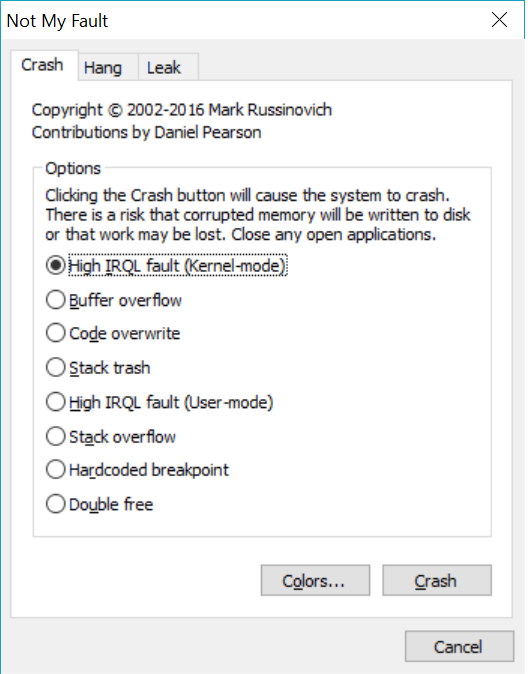
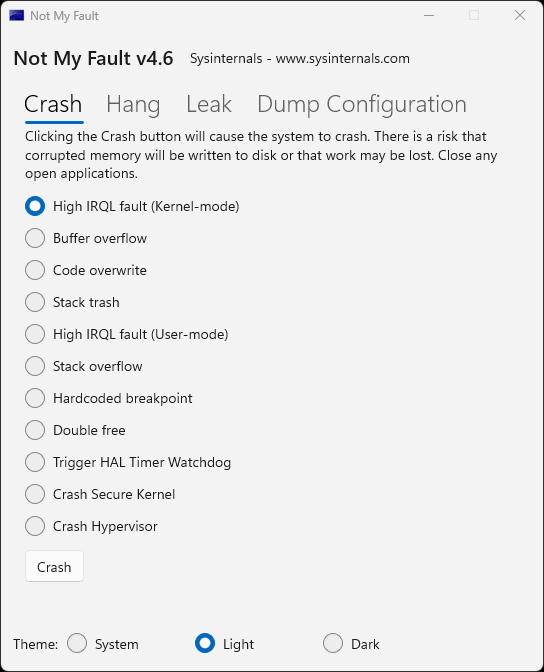
Add content for the August 2026 publish (#983)
* Add content for the August 2026 publish

* Update file sizes

* Update front page text

* Update front page

* Update NotMyFault screenshot

diff --git a/sysinternals/downloads/index.md b/sysinternals/downloads/index.md
@@ -4,7 +4,7 @@ title: Sysinternals Utilities
 description: Evaluate and find out how to install, deploy, and maintain Windows with Sysinternals utilities.
 ms:assetid: 'aefdbd0d-e21b-45ad-8e2b-b69cb8e04d5f'
 ms:mtpsurl: 'https://technet.microsoft.com/Bb545027(v=MSDN.10)'
-ms.date: 07/09/2026
+ms.date: 08/12/2026
 ---
 
 # Sysinternals Utilities Index
@@ -87,7 +87,7 @@ to optimize individual files, or to create new files that are
 contiguous.
 
 [Coreinfo](coreinfo.md)
-*v4.01 (June 17, 2026)*  
+*v4.02 (August 12, 2026)*  
 Coreinfo is a new command-line utility that shows you the mapping
 between logical processors and the physical processor, NUMA node, and
 socket on which they reside, as well as the cache’s assigned to each
@@ -191,7 +191,7 @@ List the active logon sessions on a system.
 Allows you to schedule move and delete commands for the next reboot.
 
 [NotMyFault](notmyfault.md)
-*v4.5 (May 7, 2026)*  
+*v4.6 (August 12, 2026)*  
 Notmyfault is a tool that you can use to crash, hang, and cause kernel
 memory leaks on your Windows system.
 
@@ -227,13 +227,13 @@ generate process dumps when a process has a hung window or unhandled
 exception.
 
 [Process Explorer](process-explorer.md)
-*v17.12 (May 7, 2026)*  
+*v17.13 (August 12, 2026)*  
 Find out what files, registry keys and other objects processes have
 open, which DLLs they have loaded, and more. This uniquely powerful
 utility will even show you who owns each process.
 
 [Process Monitor](procmon.md)  
-*v4.04 (June 17, 2026)*  
+*v4.05 (August 12, 2026)*  
 Monitor file system, Registry, process, thread and DLL activity in
 real-time.
 
@@ -258,7 +258,7 @@ Obtain information about a system.
 Terminate local or remote processes.
 
 [PsPing](psping.md)  
-*v2.12 (March 30, 2023)*  
+*v2.13 (August 12, 2026)*  
 Measure network performance.
 
 [PsList](pslist.md)  
@@ -290,7 +290,7 @@ Shuts down and optionally reboots a computer.
 Suspend and resume processes.
 
 [PsTools](pstools.md)  
-*v2.51 (April 11, 2023)*  
+*v2.52 (August 12, 2026)*  
 The PsTools suite includes command-line utilities for listing the
 processes running on local or remote computers, running processes
 remotely, rebooting computers, dumping event logs, and more.
@@ -301,7 +301,7 @@ An advanced physical memory usage analysis utility that presents usage
 information in different ways on its several different tabs.
 
 [RDCMan](rdcman.md)  
-*v3.12 (February 4, 2026)*  
+*v3.20 (August 12, 2026)*  
 Manage multiple remote desktop connections.
 
 [RegDelNull](regdelnull.md)  
@@ -374,5 +374,5 @@ See who owns an Internet address.
 The ultimate Object Manager namespace viewer is here.
 
 [ZoomIt](zoomit.md)
-*v12.11 (July 9, 2026)*  
+*v12.2 (August 12, 2026)*  
 Presentation utility for zooming and drawing on the screen.

diff --git a/sysinternals/downloads/zoomit.md b/sysinternals/downloads/zoomit.md
@@ -5,16 +5,16 @@ description: Presentation utility for zooming and drawing on the screen.
 no-loc: [Mark Russinovich]
 ms:assetid: '0b6c4abc-9482-4759-a9cd-bf77cb961dd4'
 ms:mtpsurl: 'https://technet.microsoft.com/Bb897434(v=MSDN.10)'
-ms.date: 07/09/2026
+ms.date: 08/12/2026
 ---
 
-# ZoomIt v12.11
+# ZoomIt v12.2
 
 **By Mark Russinovich**
 
-Published: July 9, 2026
+Published: August 12, 2026
 
-[![Download](media/shared/Download_sm.png)](https://download.sysinternals.com/files/ZoomIt.zip) [**Download ZoomIt**](https://download.sysinternals.com/files/ZoomIt.zip) **(24.2 MB)**  
+[![Download](media/shared/Download_sm.png)](https://download.sysinternals.com/files/ZoomIt.zip) [**Download ZoomIt**](https://download.sysinternals.com/files/ZoomIt.zip) **(24.3 MB)**  
 [**Download from Microsoft PowerToys (GitHub)**](https://github.com/microsoft/PowerToys)
 <br>
 [**Download ZoomIt For Mac (GitHub)**](https://github.com/microsoft/ZoomitForMac)
@@ -107,7 +107,7 @@ ZoomIt offers a number of shortcuts which can extend its usage greatly.
 | Advance to the next snippet (DemoType User-driven Mode)                                                                            | Space Bar                                 |
 | Exit                                                                                                                               | Esc or Right-Click                        |
 
-[![Download](media/shared/Download_sm.png)](https://download.sysinternals.com/files/ZoomIt.zip) [**Download ZoomIt**](https://download.sysinternals.com/files/ZoomIt.zip) **(24.2 MB)**  
+[![Download](media/shared/Download_sm.png)](https://download.sysinternals.com/files/ZoomIt.zip) [**Download ZoomIt**](https://download.sysinternals.com/files/ZoomIt.zip) **(24.3 MB)**  
 **Run now** from [Sysinternals Live](https://live.sysinternals.com/ZoomIt.exe).
 
 [**Download from Microsoft PowerToys (GitHub)**](https://github.com/microsoft/PowerToys)

diff --git a/sysinternals/downloads/process-explorer.md b/sysinternals/downloads/process-explorer.md
@@ -4,17 +4,17 @@ title: Process Explorer
 description: Find out what files, registry keys and other objects processes have open, which DLLs they have loaded, and more.
 ms:assetid: '32cbeee6-4335-44d5-b94b-160612b99738'
 ms:mtpsurl: 'https://technet.microsoft.com/Bb896653(v=MSDN.10)'
-ms.date: 05/07/2026
+ms.date: 08/12/2026
 adobe-target: true
 ---
 
-# Process Explorer v17.12
+# Process Explorer v17.13
 
 **By Mark Russinovich**
 
-Published: May 7, 2026
+Published: August 12, 2026
 
-[![Download](media/shared/Download_sm.png)](https://download.sysinternals.com/files/ProcessExplorer.zip) [**Download Process Explorer**](https://download.sysinternals.com/files/ProcessExplorer.zip) **(3.3 MB)**  
+[![Download](media/shared/Download_sm.png)](https://download.sysinternals.com/files/ProcessExplorer.zip) [**Download Process Explorer**](https://download.sysinternals.com/files/ProcessExplorer.zip) **(3.4 MB)**  
 **Run now** from [Sysinternals Live](https://live.sysinternals.com/procexp.exe).
 <br><br>
 > [!VIDEO https://learn-video.azurefd.net/vod/player?id=27421f3d-e796-4ecd-935d-ea78cd638757]
@@ -49,7 +49,7 @@ into the way Windows and applications work.
 
 ## Download
 
-[![Download](media/shared/Download_sm.png)](https://download.sysinternals.com/files/ProcessExplorer.zip) [**Download Process Explorer**](https://download.sysinternals.com/files/ProcessExplorer.zip) **(3.3 MB)**  
+[![Download](media/shared/Download_sm.png)](https://download.sysinternals.com/files/ProcessExplorer.zip) [**Download Process Explorer**](https://download.sysinternals.com/files/ProcessExplorer.zip) **(3.4 MB)**  
 **Run now** from [Sysinternals Live](https://live.sysinternals.com/procexp.exe).
 
 **Runs on:**

diff --git a/sysinternals/downloads/rdcman.md b/sysinternals/downloads/rdcman.md
@@ -3,16 +3,16 @@ TOCTitle: Remote Desktop Connection Manager
 title: Remote Desktop Connection Manager
 no-loc: [Julian Burger]
 description: Manage multiple remote desktop connections.
-ms.date: 02/04/2026
+ms.date: 08/12/2026
 ---
 
-# Remote Desktop Connection Manager v3.12
+# Remote Desktop Connection Manager v3.20
 
 **By Julian Burger**
 
-Published: February 4, 2026
+Published: August 12, 2026
 
-[![Download](media/shared/Download_sm.png)](https://download.sysinternals.com/files/RDCMan.zip) [**Download Remote Desktop Connection Manager**](https://download.sysinternals.com/files/RDCMan.zip) **(116.1 MB)**  
+[![Download](media/shared/Download_sm.png)](https://download.sysinternals.com/files/RDCMan.zip) [**Download Remote Desktop Connection Manager**](https://download.sysinternals.com/files/RDCMan.zip) **(122.9 MB)**  
 **Run now** from [Sysinternals Live](https://live.sysinternals.com/RDCMan.exe).
 
 ## Introduction
@@ -362,7 +362,7 @@ RDCMan retrieves policy information from the `HKEY_LOCAL_MACHINE\SOFTWARE\Polici
 
 ## Download
 
-[![Download](media/shared/Download_sm.png)](https://download.sysinternals.com/files/RDCMan.zip) [**Download Remote Desktop Connection Manager**](https://download.sysinternals.com/files/RDCMan.zip) **(116.1 MB)**  
+[![Download](media/shared/Download_sm.png)](https://download.sysinternals.com/files/RDCMan.zip) [**Download Remote Desktop Connection Manager**](https://download.sysinternals.com/files/RDCMan.zip) **(122.9 MB)**  
 **Run now** from [Sysinternals Live](https://live.sysinternals.com/RDCMan.exe).
 
 **Runs on:**

diff --git a/sysinternals/index.md b/sysinternals/index.md
@@ -5,7 +5,7 @@ description: Library, learning resources, downloads, support, and community. Eva
 no-loc: [Mark Russinovich]
 ms:assetid: '2b0d74e3-5962-455a-b35a-248979737b61'
 ms:mtpsurl: 'https://technet.microsoft.com/Bb545021(v=MSDN.10)'
-ms.date: 07/24/2026
+ms.date: 08/12/2026
 ---
 
 # ![Sysinternals icon](media/index/Sysinternals.png)<br>Sysinternals
@@ -29,6 +29,17 @@ In a command prompt use `\\live.sysinternals.com\tools\<toolname>`.
 You can view the entire Sysinternals Live tools directory in a browser or Windows Explorer at [https://live.sysinternals.com/](https://live.sysinternals.com).
 
 ## What's New [![RSS icon](media/index/rss.gif)](https://techcommunity.microsoft.com/t5/s/gxcuf89792/rss/board?board.id=Sysinternals-Blog)
+
+### What's New (August 12, 2026)
+
+- [NotMyFault v4.6](~/downloads/notmyfault.md)  
+This update to NotMyFault, a tool that creates on-demand Windows crashes, hangs, and kernel memory leaks, is now in Rust and has a modern UI.
+
+- [RDCMan v3.20](~/downloads/rdcman.md)  
+This update to RDCMan, a tool for managing and connecting to Remote Desktop sessions, adds Azure Virtual Desktop workspace feed, and Microsoft Dev Box support.
+
+- [ZoomIt v12.2](~/downloads/zoomit.md)  
+This update to ZoomIt, a screen magnification and annotation tool, introduces DemoMirror for mirroring the screen, a screen region, or a window, onto a second monitor.
 
 ### What's New (July 24, 2026)
 

diff --git a/sysinternals/downloads/notmyfault.md b/sysinternals/downloads/notmyfault.md
@@ -4,16 +4,16 @@ title: NotMyFault
 description: Notmyfault is a tool that you can use to crash, hang, and cause kernel memory leaks on your Windows system.
 ms:assetid: 'fc881ee6-6e6a-480f-95d2-83458e2d09b7'
 ms:mtpsurl: 'https://technet.microsoft.com/Mt742033(v=MSDN.10)'
-ms.date: 05/07/2026
+ms.date: 08/12/2026
 ---
 
-# NotMyFault v4.5
+# NotMyFault v4.6
 
 **By Mark Russinovich**
 
-Published: May 7, 2026
+Published: August 12, 2026
 
-[![Download](media/shared/Download_sm.png)](https://download.sysinternals.com/files/NotMyFault.zip) [**Download NotMyFault**](https://download.sysinternals.com/files/NotMyFault.zip) **(1.4 MB)**
+[![Download](media/shared/Download_sm.png)](https://download.sysinternals.com/files/NotMyFault.zip) [**Download NotMyFault**](https://download.sysinternals.com/files/NotMyFault.zip) **(1.8 MB)**
 
 ## Introduction
 
@@ -60,4 +60,4 @@ Or  **notmyfaultc.exe hang hang\_type\_num**
       0x02: Hang with DPC
 ```
 
-[![Download](media/shared/Download_sm.png)](https://download.sysinternals.com/files/NotMyFault.zip) [**Download NotMyFault**](https://download.sysinternals.com/files/NotMyFault.zip) **(1.4 MB)**
+[![Download](media/shared/Download_sm.png)](https://download.sysinternals.com/files/NotMyFault.zip) [**Download NotMyFault**](https://download.sysinternals.com/files/NotMyFault.zip) **(1.8 MB)**

diff --git a/sysinternals/downloads/sysinternals-suite.md b/sysinternals/downloads/sysinternals-suite.md
@@ -5,17 +5,17 @@ description: The Windows Sysinternals troubleshooting Utilities have been rolled
 no-loc: [Mark Russinovich]
 ms:assetid: '0e18b180-9b7a-4c49-8120-c47c5a693683'
 ms:mtpsurl: 'https://technet.microsoft.com/Bb842062(v=MSDN.10)'
-ms.date: 07/09/2026
+ms.date: 08/12/2026
 ---
 
 # Sysinternals Suite
 
 **By Mark Russinovich**
-Updated: July 9, 2026
+Updated: August 12, 2026
 
-[**Download Sysinternals Suite**](https://download.sysinternals.com/files/SysinternalsSuite.zip) 184.6 MB)
+[**Download Sysinternals Suite**](https://download.sysinternals.com/files/SysinternalsSuite.zip) 191.8 MB)
 [**Download Sysinternals Suite for Nano Server**](https://download.sysinternals.com/files/SysinternalsSuite-Nano.zip) (9.9 MB)  
-[**Download Sysinternals Suite for ARM64**](https://download.sysinternals.com/files/SysinternalsSuite-ARM64.zip) (21.1 MB)  
+[**Download Sysinternals Suite for ARM64**](https://download.sysinternals.com/files/SysinternalsSuite-ARM64.zip) (21.3 MB)  
 [**Install Sysinternals Suite from the Microsoft Store**](ms-windows-store://pdp/?ProductId=9p7knl5rwt25)  
 
 ## Introduction

diff --git a/sysinternals/downloads/debugview.md b/sysinternals/downloads/debugview.md
@@ -25,10 +25,6 @@ output, so you don't need a debugger to catch the debug output your
 applications or device drivers generate, nor do you need to modify your
 applications or drivers to use non-standard debug output APIs.
 
-> [!NOTE]
-> *DebugView* v5.0 requires Windows 10 version 1809 (build 17763) /
-> Windows Server 2019 or later.
-
 ## DebugView Capture
 
 *DebugView* will capture:
@@ -585,3 +581,8 @@ filter.
 [![Download](media/shared/Download_sm.png)](https://download.sysinternals.com/files/DebugView.zip) [**Download DebugView**](https://download.sysinternals.com/files/DebugView.zip) **(1.7 MB)**
 
 **Run now** from [Sysinternals Live](https://live.sysinternals.com/Dbgview.exe).
+
+**Runs on:**
+
+- Client: Windows 11 and higher.
+- Server: Windows Server 2019 and higher.

diff --git a/sysinternals/downloads/procmon.md b/sysinternals/downloads/procmon.md
@@ -5,14 +5,14 @@ description: Monitor file system, Registry, process, thread and DLL activity in 
 no-loc: [Mark Russinovich, David Solomon, Aaron Margosis]
 ms:assetid: '37225635-4ad0-4b08-aa5e-4bba665b1d89'
 ms:mtpsurl: 'https://technet.microsoft.com/Bb896645(v=MSDN.10)'
-ms.date: 06/17/2026
+ms.date: 08/12/2026
 ---
 
-# Process Monitor v4.04
+# Process Monitor v4.05
 
 **By Mark Russinovich**
 
-Published: June 17, 2026
+Published: August 12, 2026
 
 [![Download](media/shared/Download_sm.png)](https://download.sysinternals.com/files/ProcessMonitor.zip) [**Download Process Monitor**](https://download.sysinternals.com/files/ProcessMonitor.zip) **(2.9 MB)**  
 

diff --git a/sysinternals/downloads/coreinfo.md b/sysinternals/downloads/coreinfo.md
@@ -4,13 +4,13 @@ title: Coreinfo
 description: Coreinfo is a command-line utility that shows you the mapping between logical processors and the physical processor.
 ms:assetid: 'c5e117b5-d674-4409-914d-17bcac43f1fd'
 ms:mtpsurl: 'https://technet.microsoft.com/Cc835722(v=MSDN.10)'
-ms.date: 06/17/2026
+ms.date: 08/12/2026
 ---
-# Coreinfo v4.01
+# Coreinfo v4.02
 
 **By Mark Russinovich**
 
-Published: June 17, 2026
+Published: August 12, 2026
 
 [![Download](media/shared/Download_sm.png)](https://download.sysinternals.com/files/Coreinfo.zip) [**Download Coreinfo**](https://download.sysinternals.com/files/Coreinfo.zip) **(3 MB)**
 

diff --git a/sysinternals/downloads/psping.md b/sysinternals/downloads/psping.md
@@ -4,14 +4,14 @@ title: PsPing
 description: Measure network performance.
 ms:assetid: '80138356-ebe3-41cd-a14d-8aa7eae81c42'
 ms:mtpsurl: 'https://technet.microsoft.com/JJ729731(v=MSDN.10)'
-ms.date: 03/30/2023
+ms.date: 08/12/2026
 ---
 
-# PsPing v2.12
+# PsPing v2.13
 
 **By Mark Russinovich**
 
-Published: March 30, 2023
+Published: August 12, 2026
 
 [![Download](media/shared/Download_sm.png)](https://download.sysinternals.com/files/PSTools.zip) [**Download PsTools**](https://download.sysinternals.com/files/PSTools.zip) **(5 MB)**
 

diff --git a/sysinternals/downloads/microsoft-store.md b/sysinternals/downloads/microsoft-store.md
@@ -2,15 +2,15 @@
 TOCTitle: Microsoft Store
 title: Microsoft Store
 description: Sysinternals Suite is available as an MSIX package from the Microsoft Store.
-ms.date: 07/09/2026
+ms.date: 08/12/2026
 ---
 
 # Microsoft Store
 
 ## Sysinternals Suite
 
-Version 2026.7  
-July 9, 2026
+Version 2026.8  
+August 12, 2026
 
 Sysinternals Suite is installed as an [MSIX bundle](/windows/msix/package/bundling-overview) from the Microsoft Store.
 
